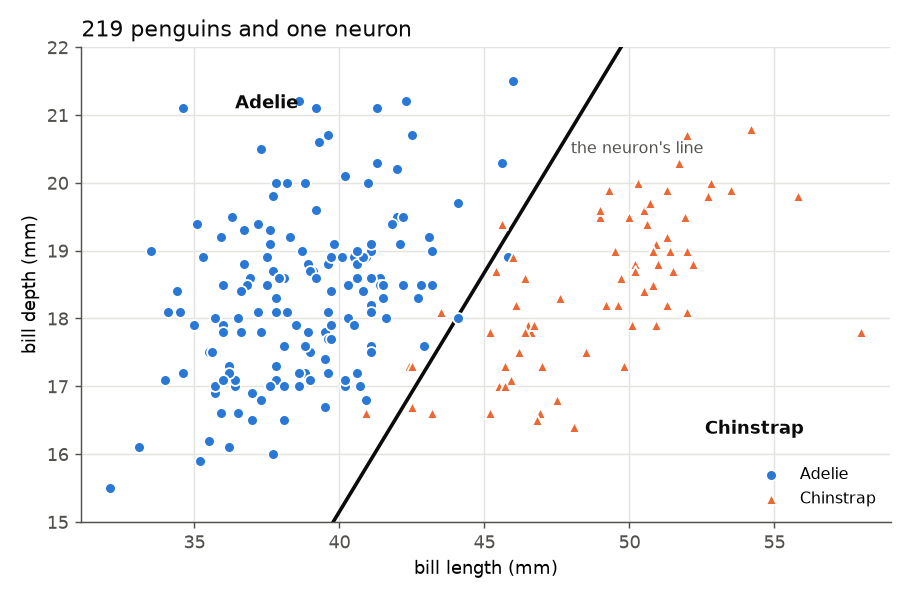
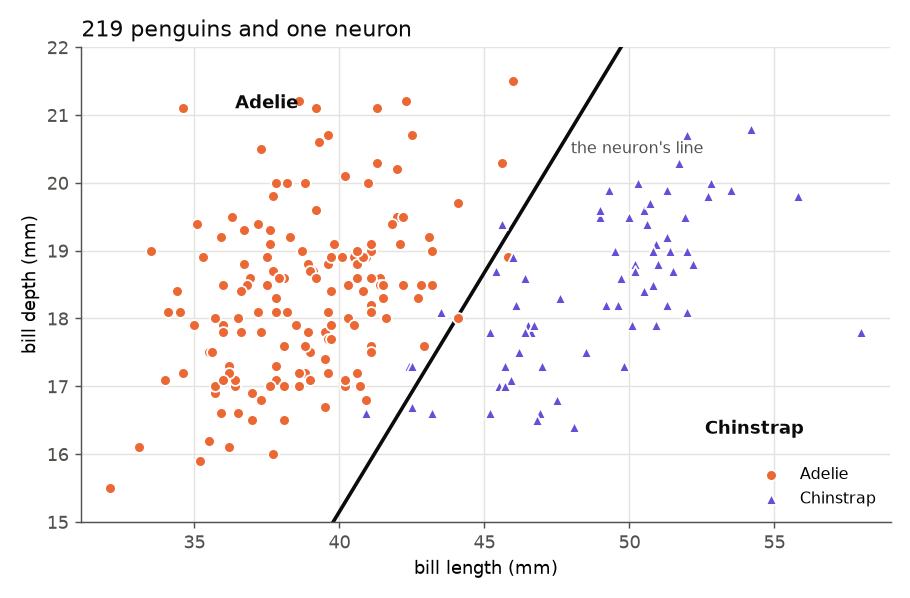
Post 1: baseball opening, penguin artwork, chart colors matched to the art

diff --git a/samples/01-neuron/python/plot.py b/samples/01-neuron/python/plot.py
@@ -19,7 +19,7 @@ OUT = Path(__file__).resolve().parents[3] / "posts" / "images" / "01-neuron.png"
 
 INK, MUTED, GRID = "#0b0b0b", "#52514e", "#e4e3df"
 fig, ax = plt.subplots(figsize=(7, 4.6))
-for label, name, color, marker in ((0, "Adelie", "#2a78d6", "o"), (1, "Chinstrap", "#eb6834", "^")):
+for label, name, color, marker in ((0, "Adelie", "#eb6834", "o"), (1, "Chinstrap", "#6250d6", "^")):
     pts = X[y == label]
     ax.scatter(pts[:, 0], pts[:, 1], s=36, c=color, marker=marker, edgecolors="white", linewidths=1, label=name, zorder=3)
 

diff --git a/posts/01-a-neuron-is-a-weighted-vote.md b/posts/01-a-neuron-is-a-weighted-vote.md
@@ -1,8 +1,8 @@
 # A neuron is a weighted vote
 
-*Deep Learning from Scratch, part 1. Code: [`samples/01-neuron`](../samples/01-neuron), in C# and Python, with the same numbers.*
+*Deep Learning from Scratch, part 1. Code: [`samples/01-neuron`](../samples/01-neuron).
 
-In Cuba, the night before a Santiago de Cuba vs Industriales game, everybody
+In Cuba, the night before a Santiago de Cuba vs Industriales baseball game, everybody
 is an expert.
 
 I grew up in Moa, in Holguín, and moved to Havana before high school. If you
@@ -35,9 +35,12 @@ billions of them.
 
 You can't understand the billions until you've built one by hand. So let's
 build one, in C# and in Python, and teach it to tell two kinds of penguins
-apart. (There are no penguins in Cuba. The coldest thing we have is a January
-morning at 18 °C, when everyone puts on a jacket. I chose penguins anyway,
-because the data is lovely.)
+apart.
+
+There are no penguins in Cuba. The coldest thing we have is a January morning
+at 18 °C, when everyone puts on a jacket. Growing up, penguins were like most
+things from the outside world: something you could only dream about. I chose
+them anyway, because the data is lovely.
 
 ## The data
 
@@ -45,6 +48,14 @@ The [Palmer Penguins](https://allisonhorst.github.io/palmerpenguins/) dataset
 measures 344 penguins from three islands in Antarctica. I kept the two species
 that are hardest to tell apart, Adelie (151 birds) and Chinstrap (68), and two
 measurements of each: **bill length** and **bill depth**.
+
+![The three Palmer penguin species: Chinstrap, Gentoo and Adelie](images/lter_penguins.png)
+
+*We'll use the Chinstrap (left) and the Adelie (right). Artwork by @allison_horst.*
+
+![How bill length and bill depth are measured](images/culmen_depth.png)
+
+*Bill length runs along the top of the beak; bill depth is its height. Artwork by @allison_horst.*
 
 Here's a penguin with a bill 46 mm long and 17 mm deep. Adelie or Chinstrap?
 Hold that thought.
@@ -274,4 +285,4 @@ cd csharp && dotnet run          # .NET 10
 cd ../python && python main.py   # numpy
 ```
 
-*Data: Palmer Penguins, Horst, Hill & Gorman (2020), CC0.*
+*Data: Palmer Penguins, Horst, Hill & Gorman (2020), CC0. Penguin artwork by @allison_horst.*
